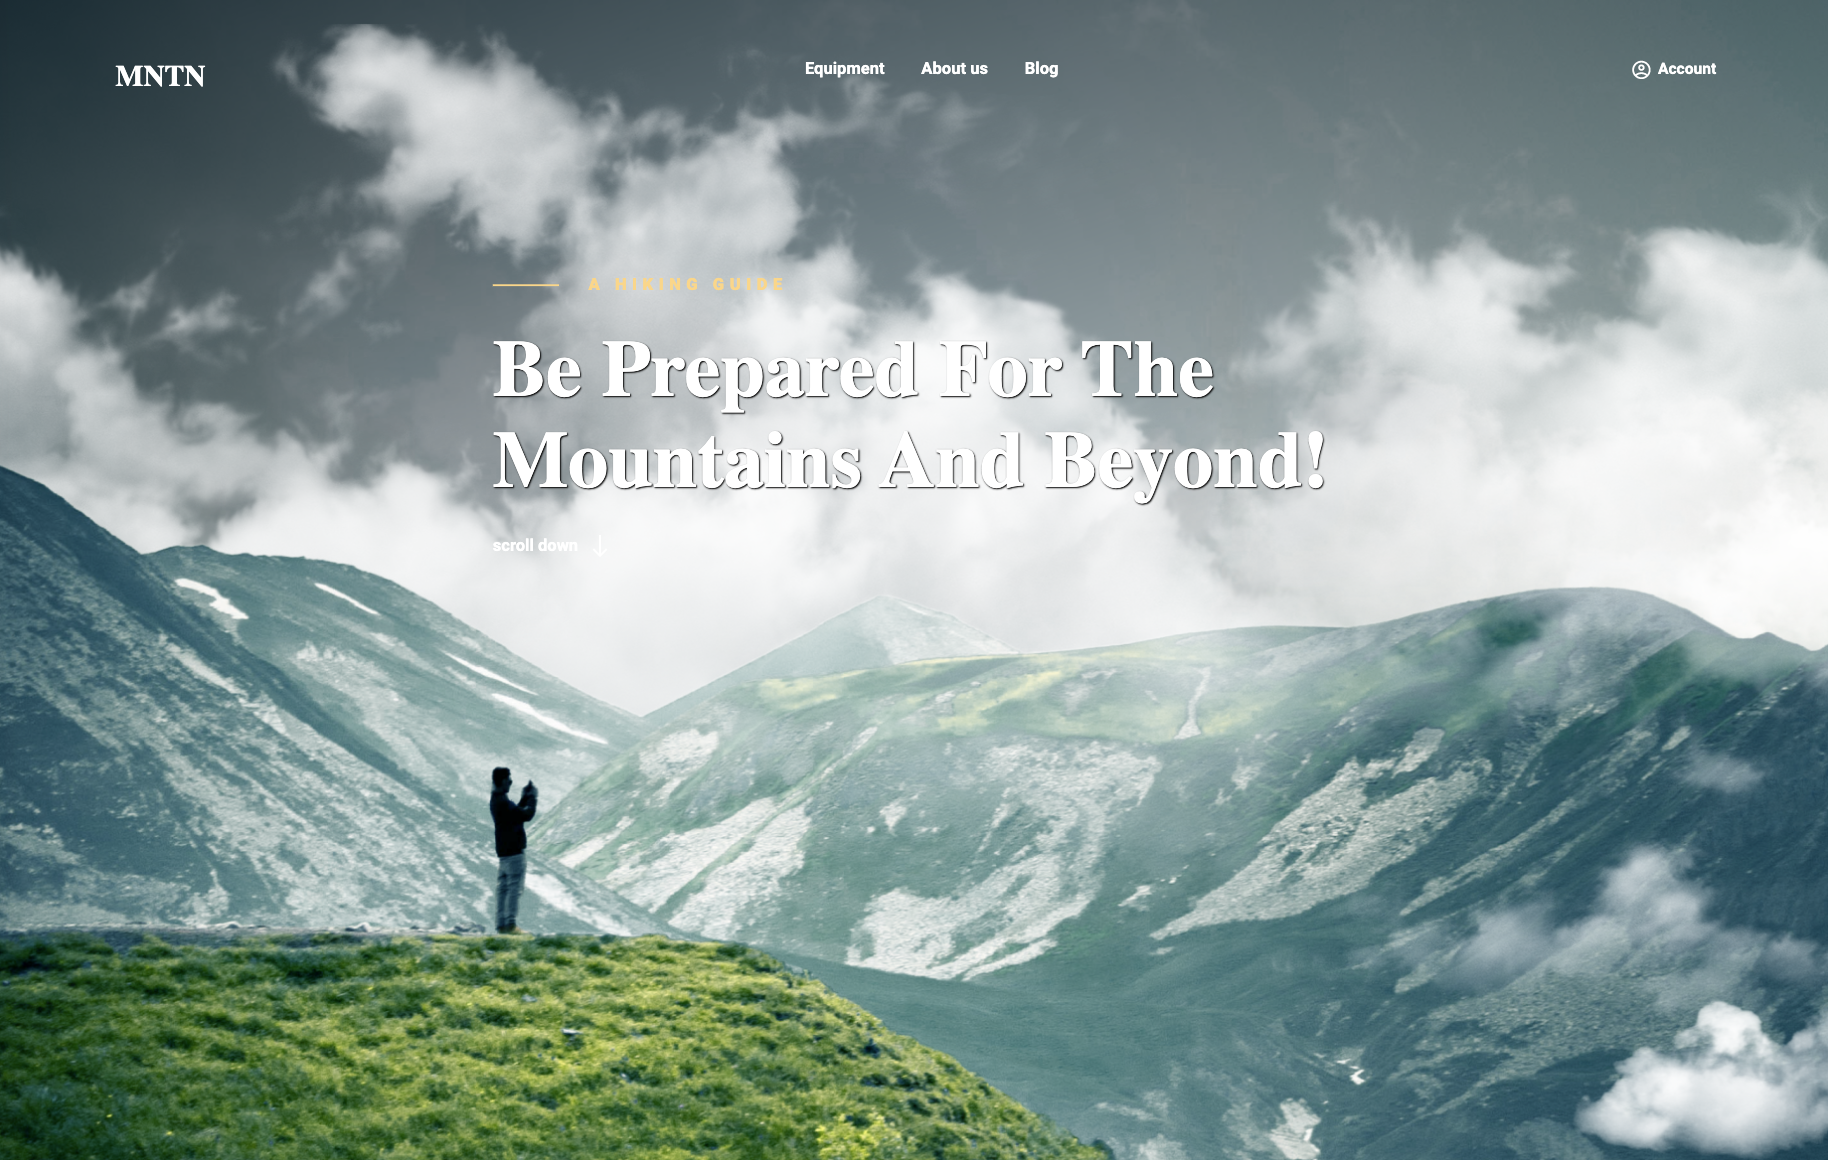
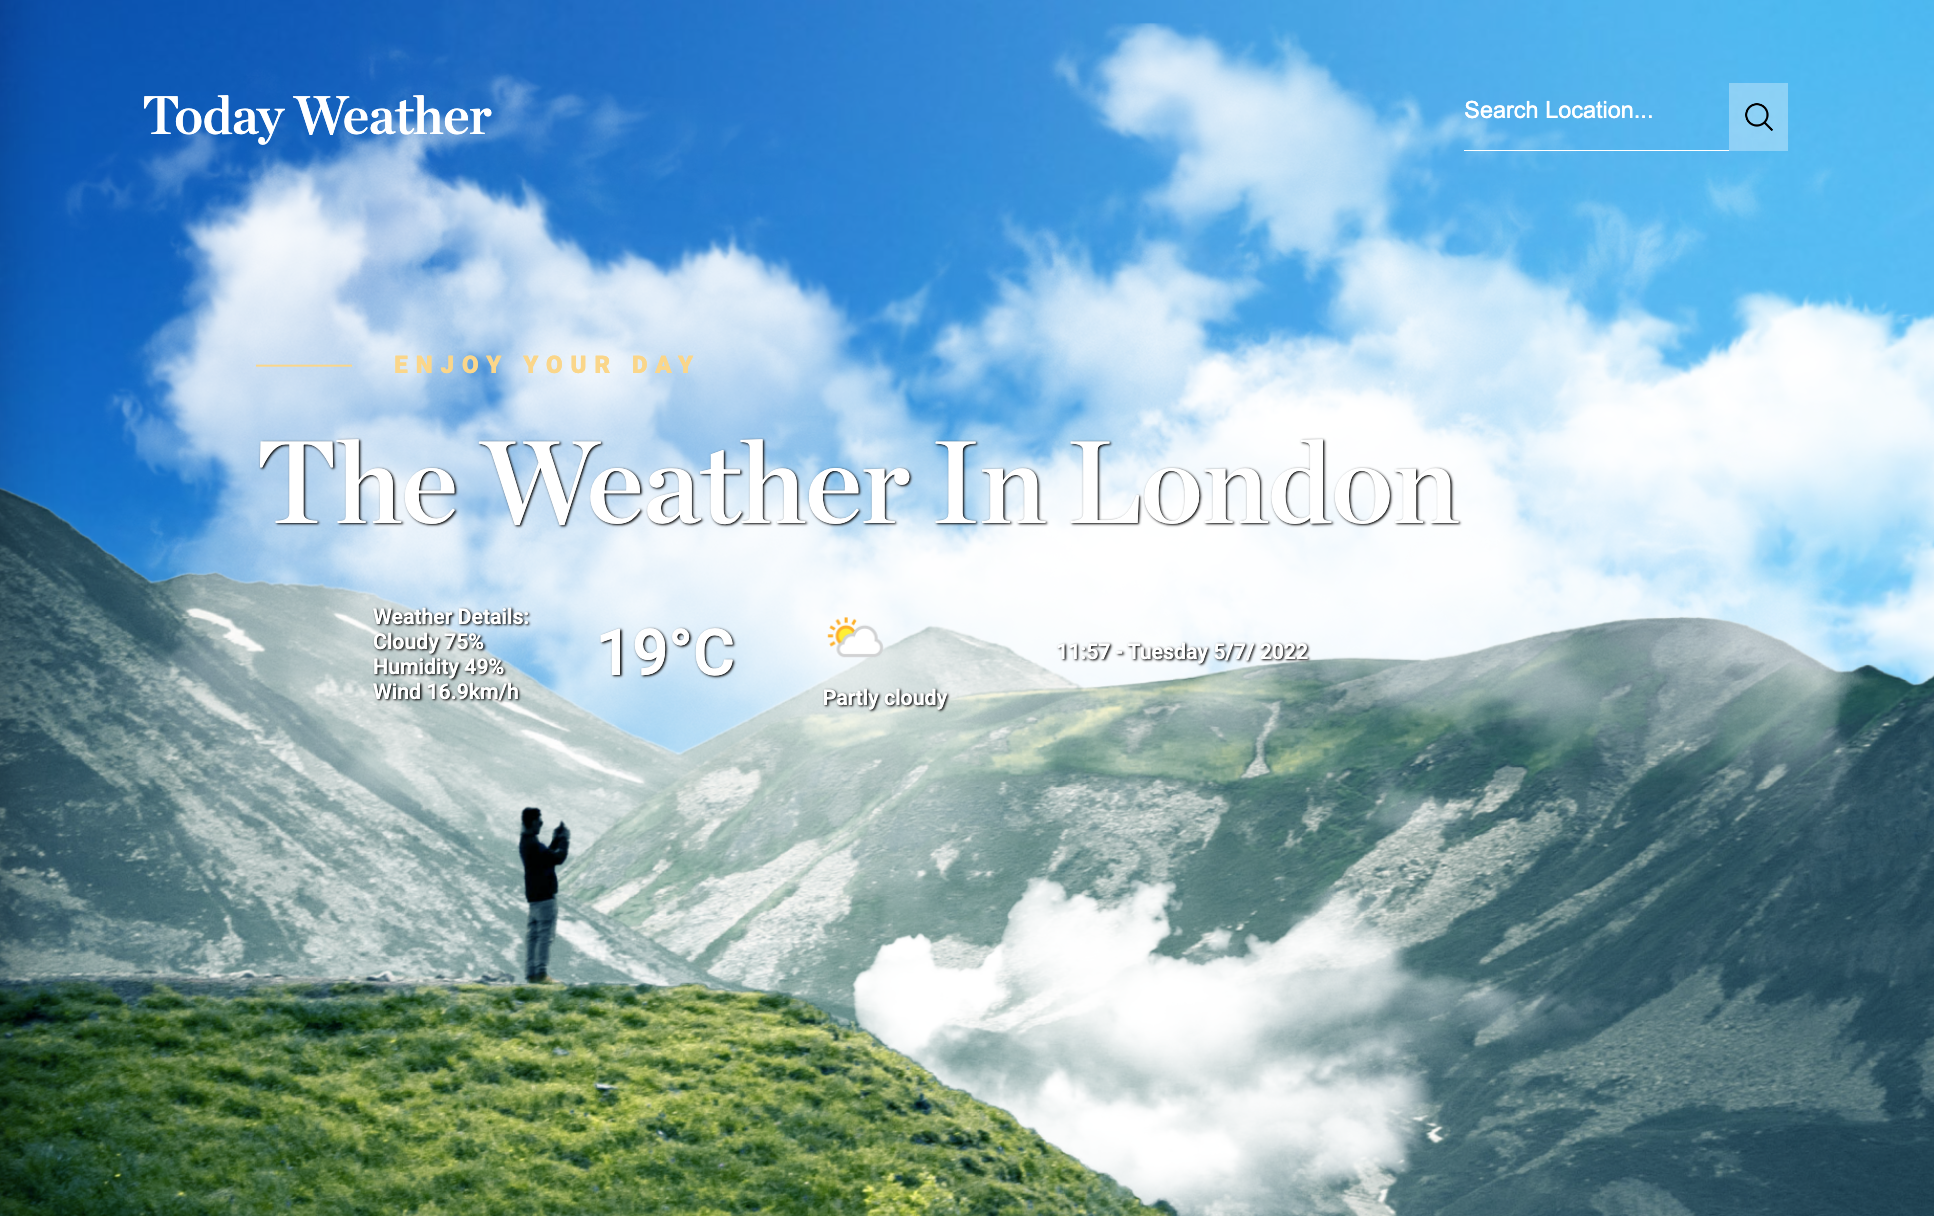
change portfolio1

diff --git a/index.html b/index.html
@@ -21,7 +21,7 @@
     <!--==================== HEADER ====================-->
     <header class="header" id="header">
       <nav class="nav container">
-        <a href="#" class="nav__logo"><i class="uil uil-fire"></i></a>
+        <i class="uil uil-fire"></i>
 
         <div class="nav__menu" id="nav-menu">
           <ul class="nav__list grid">
@@ -349,17 +349,6 @@
                 </div>
 
                 <div>
-                  <h3 class="qualification__title">SEO-Shaolin</h3>
-                  <span class="qualification__subtitle">Online course</span>
-                  <div class="qualification__calendar">
-                    <i class="uil uil-calendar-alt"></i>
-                    March 2020
-                  </div>
-                </div>
-              </div>
-              <!-- ====================== content 3 ========================== -->
-              <div class="qualification__data">
-                <div>
                   <h3 class="qualification__title">Semantic Markup Training</h3>
                   <span class="qualification__subtitle">Kyiv - Training</span>
                   <div class="qualification__calendar">
@@ -367,28 +356,20 @@
                     April 2021
                   </div>
                 </div>
-
-                <div>
-                  <span class="qualification__rounder"></span>
-                  <span class="qualification__line"></span>
-                </div>
               </div>
-              <!-- ====================== content 4 ========================== -->
+              <!-- ====================== content 3 ========================== -->
               <div class="qualification__data">
-                <div></div>
-
-                <div>
-                  <span class="qualification__rounder"></span>
-                  <!-- <span class="qualification__line"></span> -->
-                </div>
-
                 <div>
                   <h3 class="qualification__title">Responsive Web Design</h3>
-                  <span class="qualification__subtitle">FreeCodeCamp</span>
-                  <div class="qualification__calendar">
-                    <i class="uil uil-calendar-alt"></i>
-                    September 2021
+                    <span class="qualification__subtitle">FreeCodeCamp</span>
+                    <div class="qualification__calendar">
+                      <i class="uil uil-calendar-alt"></i>
+                      September 2021
                   </div>
+                </div>
+
+                <div>
+                  <span class="qualification__rounder"></span>
                 </div>
               </div>
             </div>
@@ -596,10 +577,9 @@
               />
 
               <div class="portfolio__data">
-                <h3 class="portfolio__title">Modern website</h3>
+                <h3 class="portfolio__title">Weather website</h3>
                 <p class="portfolio__description">
-                  Website adaptable to all devices, with ui components and
-                  animated interactions.
+                  Website shows customer current weather by ip, adaptable to all devices.
                 </p>
                 <a
                   href="https://polkan37.github.io/mntn/"
